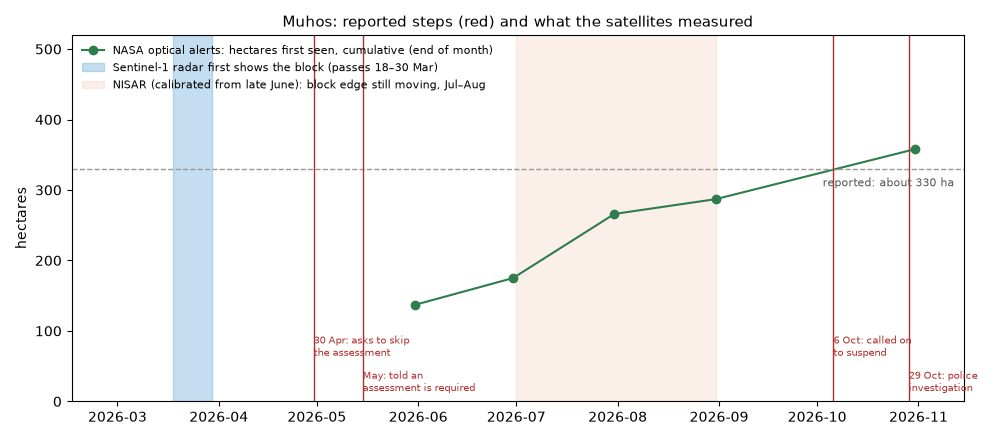
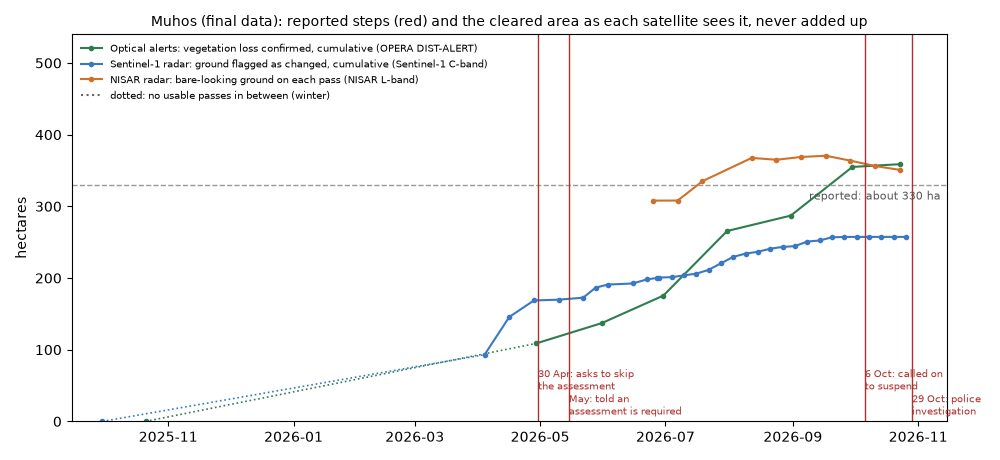
Muhos story on the final data: Sentinel-1 first on 4 Apr, optical 109 ha by 29 Apr and 359 by Oct, NISAR growth 7 Jul-12 Aug; chart points to story_series.json

diff --git a/kb/submission.md b/kb/submission.md
@@ -57,7 +57,7 @@ carries most of the score.
 > We built a web app that turns what satellites see into a short, explained list of land changes a regulator should
 > look at first. Our worked example is Muhos, Finland, where about 330 hectares of forest were cleared for a data
 > centre in 2026, as reported, while an environmental assessment was required. The app puts three satellites on one
-> timeline: Sentinel-1 radar first shows the cleared block in late March, NASA's optical alerts date it month by
+> timeline: Sentinel-1 radar first shows the cleared block in early April, NASA's optical alerts date it month by
 > month, and NASA–ISRO's NISAR radar, seeing through cloud, shows it still growing in July and August, after the
 > company had learned an assessment was required. Each change is checked against the public record and labelled
 > Expected, Needs review or High concern, always with the reason and before-and-after pictures. The app never decides
@@ -99,10 +99,12 @@ look, with the evidence attached; the app never says a change is unlawful.
    with MapLibre GL JS, no server and no build step, published on GitHub Pages.
 
 *Results at Muhos* (details and limits: `evidence-check.md`):
-- Sentinel-1 first shows the cleared block in its passes of 18–30 March 2026.
-- NASA's optical alerts show one block of about 358 ha by October, close to the reported 330 ha: 137 ha first seen by
-  the end of May, about half of the block first seen from July on, two months after the assessment was required.
-- NISAR shows the block's edge still moving in July and August.
+- Sentinel-1 first shows the cleared block on its pass of 4 April 2026 (previous usable pass: September 2025).
+- NASA's optical alerts confirm about 109 ha by 29 April and one block of about 359 ha by late October, close to the
+  reported 330 ha: 137 ha first seen by the end of May, about half of the block first seen from July on, two months
+  after the assessment was required.
+- NISAR shows the block still growing between its passes of 7 July and 12 August.
+- The app's chart (`app/data/muhos/story_series.json`) draws the three sources as separate lines, never added up.
 - Labels on the final data: [TBD: counts per label after Tian posts "Muhos data final on main"].
 - Limits we state: a first-seen date is the first clear view, not the cutting day; the project boundary is not
   published; we processed the data in November, nothing was detected live.
@@ -126,7 +128,7 @@ suspend" (not "ordered"), "as reported" for the 330 ha, no "nobody was looking".
 | # | Time | Screen (1080p screen recording of the app, Muhos) | Narration (own voice, ~65 words) |
 |---|---|---|---|
 | 1 | 0–4 s | Muhos opens on "Satellite photo", slider at early March, forest intact. Corner label for the whole video: "SARwatch · <team> · NASA Space Apps 2026" | "Northern Finland, spring 2026. A forest is being cleared for a data centre." |
-| 2 | 4–10 s | Switch to "Radar", press play: frames advance, the marked block appears in late March and grows; "ha so far" counter visible; red flag "May: assessment required" passes | "Radar satellites date it pass by pass, through cloud." |
+| 2 | 4–10 s | Switch to "Radar", press play: frames advance, the marked block appears in early April and grows; "ha so far" counter visible; red flag "May: assessment required" passes | "Radar satellites date it pass by pass, through cloud." |
 | 3 | 10–16 s | Play continues into July–August on NISAR frames; the block's edge still moving after the May flag | "NASA's NISAR shows it still growing in July and August, after an assessment was required." |
 | 4 | 16–21 s | "Compare before and after": drag the full-map swipe from March to August | "Before. After." |
 | 5 | 21–27 s | Click the block: card with label, the top two reasons with sources, "between … and …", the satellites listed | "SARwatch checks each change against the public record and says, in plain words, why it needs a second look." |

diff --git a/kb/evidence-check.md b/kb/evidence-check.md
@@ -15,7 +15,7 @@ A sceptical read of our results against the claims in `demo-strategy.md`. Last u
 | 3 | "It grew by about 53 ha between 19 Jul and 24 Aug" | **measured as a lower bound** [55]: growth sits at the NE edge (spatially compact, so not a moisture shift); pass-to-pass wobble is about 8 ha (peak 446, end 438). Optical: +91 ha first seen in July, +21 in August [44] | ordinary forestry next door (about 220 ha of other confirmed loss in the window in 2026 [44]); the project boundary is not published | "NISAR shows the cleared block still growing in July and August", no hectares in speech |
 | 4 | "This was after the May notice" | dates **reported** [ctx], growth **measured** (row 3). Optical: 137 ha by end of May, 358 by October, so 221 ha first seen after May; 183 ha (about half) first seen from July on [44] | an alert date is the first clear view, not the cutting day; clouds push it later [44] | "About half of the block was first seen from July on, two months after the notice" |
 | 5 | "Six weeks before the order to stop" | dates only: 24 Aug to 6 Oct is 43 days. We processed in November; no live detection was shown. The 6 Oct act is a notice calling on the company to suspend [ctx] | — | "The satellite passes that show it were taken six weeks before the regulator called for a halt" |
-| 6 | "Radar saw every stage, through clouds and snow" / "works in the dark northern winter" | **not shown.** NISAR starts 25 Jun; Sentinel-1 first shows the block in the 18–30 Mar passes [55] (one date, no winter series analysed); the frozen 4 Nov pass had to be dropped [55]; "under snow" has no source (unverified) | — | "through cloud" only. Proof at hand: the optical scene behind the 31 Aug state was 100 % cloud [44] while NISAR kept passing |
+| 6 | "Radar saw every stage, through clouds and snow" / "works in the dark northern winter" | **not shown.** NISAR starts 25 Jun; Sentinel-1 first shows the block on its 4 Apr pass, previous usable pass Sep 2025 (final data, PR #95); the frozen 4 Nov pass had to be dropped [55]; "under snow" has no source (unverified) | — | "through cloud" only. Proof at hand: the optical scene behind the 31 Aug state was 100 % cloud [44] while NISAR kept passing |
 | 7 | "The vegetation echo drops when forest is cut" (1.5–3 dB at Muhos; slash and stumps) | drop **measured** [55]; the cause is a **hypothesis** | sparse boreal forest gives little contrast to begin with | say "our hypothesis" |
 | 8 | "The app checks every change against public records" | Catalonia: **measured**, live lookups, no failures [46]. Muhos: the record was **entered by hand** from the notice [46] | — | "in Catalonia it queries the public registers; for Muhos we entered the regulator's notice by hand" |
 | 9 | "A short list" | **not shown yet.** Untuned: 394 changes at Muhos, 185 at Agroparc with 153 "needs review" [46]. Tuned: 24 [55] and 46 [68], labels not re-run | — | only after the tuned verdict run; else show the list filtered to one label |

diff --git a/kb/project-context.md b/kb/project-context.md
@@ -90,9 +90,9 @@ investigation on 29 Oct (suspected environmental damage). Verified 14 Nov for th
 Mar-Aug window come from the HS/Kaleva article (it does not say "Leppiniemi"). All sources: `app/data/muhos/story.json`.
 Otanmäki dates (unverified). Radar: Sentinel-1 + NISAR beta cover the whole clearing, calibrated NISAR only Jun–Aug.
 March cutting under snow (unverified: no source says so; keep it out of the story). **Measured** (details and limits:
-`evidence-check.md`): Sentinel-1 first shows the block in the 18–30 Mar 2026 passes (PR #55); NASA optical alerts show
-one block of 358 ha by October, 137 ha by end of May, about half first seen from July on (#44); NISAR shows its edge
-still moving in Jul–Aug (#55). Hectares from NISAR and optical disagree in June: never add them up. Sources: https://yle.fi/a/74-20254086 ·
+`evidence-check.md`): Sentinel-1 first shows the block on its 4 Apr 2026 pass (previous usable pass Sep 2025); NASA optical
+alerts confirm 109 ha by 29 Apr and one block of 359 ha by 23 Oct, about half first seen from July on; NISAR shows it
+still growing between 7 Jul and 12 Aug (final data, PR #95: `app/data/muhos/story_series.json`). Hectares from NISAR and optical disagree in June: never add them up. Sources: https://yle.fi/a/74-20254086 ·
 https://www.kaleva.fi/hs-google-yritti-saada-poikkeusluvan-muhoksen-hakk/13686840
 
 | Case (lat, lon) | Change · size | Official status | Label | Radar signal · visible? | Window | Source |
